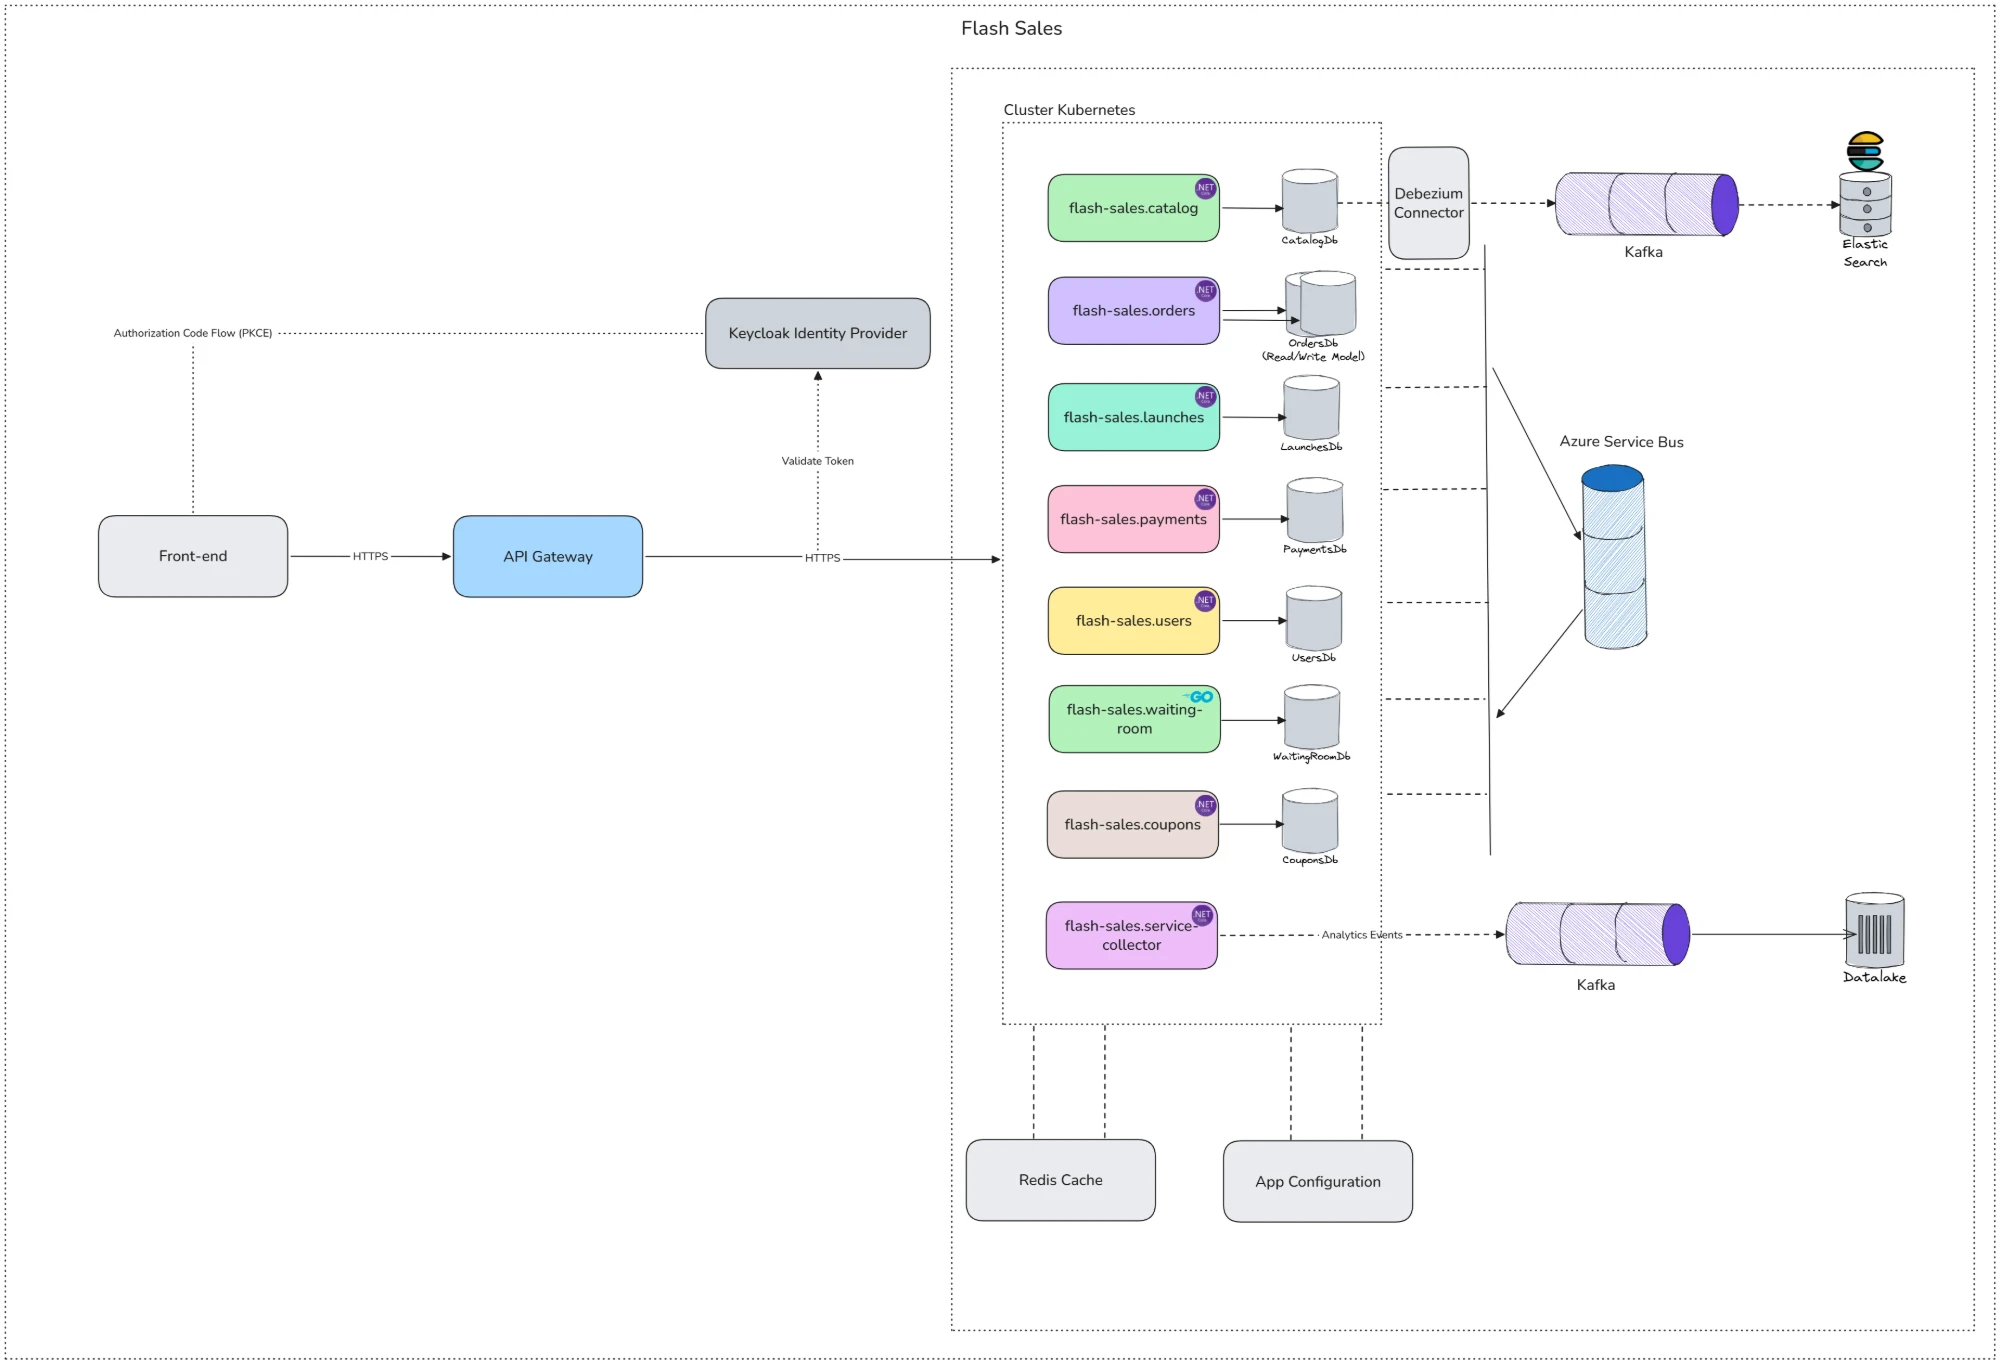
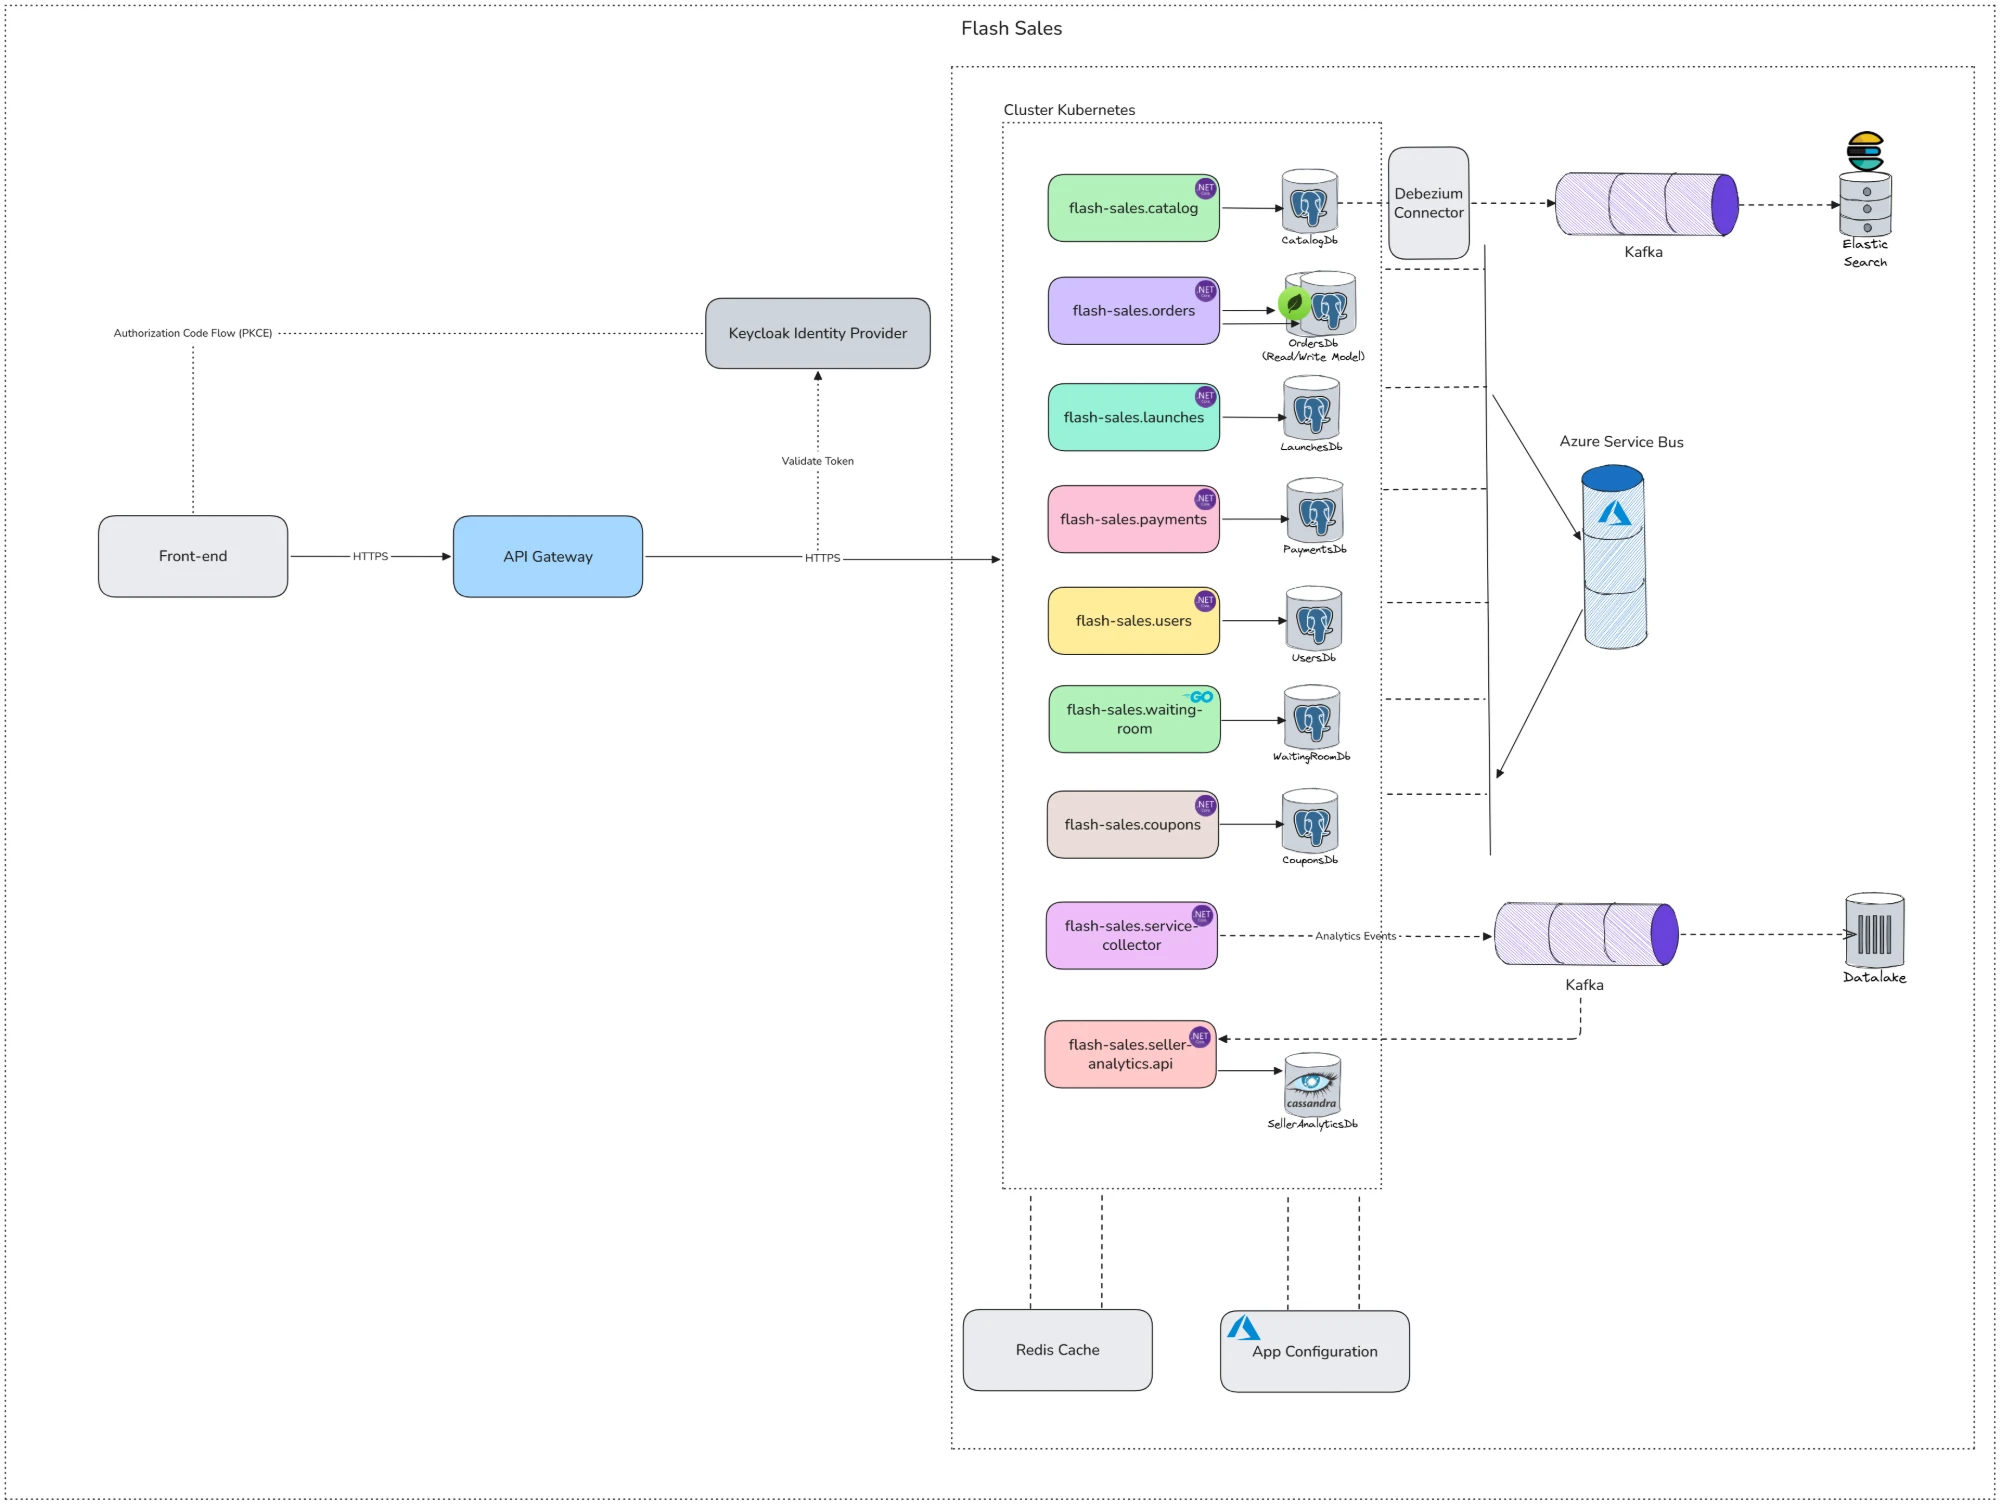
docs: update readme

diff --git a/README.md b/README.md
@@ -14,6 +14,7 @@ Flash Sales is a microservices platform for running high-demand, time-boxed prod
 - **Stripe payment gateway** integration behind a swappable abstraction.
 - **Feature flags and dynamic configuration** via Azure App Configuration.
 - **Clickstream analytics pipeline**: a dedicated service collector ingests front-end interaction events, streams them through Kafka, and lands them in a Data Lake for product analytics.
+- **Seller analytics**: a dedicated service consumes launch analytics events from Kafka and writes purpose-built views into **Cassandra**, so sellers can see how their launches are performing without touching the transactional databases.
 - **Secrets in Azure Key Vault** — no connection strings or client secrets sitting in plaintext configuration.
 - **Full distributed tracing and structured logging** via OpenTelemetry and Serilog, exported to Jaeger and Seq, correlated across HTTP and background-job execution alike.
 - **gRPC** for synchronous cross-service calls, with the standard gRPC Health Checking Protocol exposed alongside REST health checks.
@@ -24,7 +25,7 @@ Flash Sales is a microservices platform for running high-demand, time-boxed prod
 
 ![Flash Sales Architecture](docs/images/flash-sales-architecture.webp)
 
-A front-end authenticates against **Keycloak** via Authorization Code Flow with PKCE, then talks to the platform through an **API Gateway**, which routes to a Kubernetes-hosted cluster of seven bounded-context services (six in .NET, plus the Go-based Waiting Room) and the analytics service collector. Every request carries a Keycloak-issued JWT, validated independently by the service handling it — the gateway routes, it does not authorize. Services communicate synchronously over **gRPC** and resilient HTTP, and asynchronously over **Azure Service Bus** through a per-module Outbox/Inbox pipeline. Each service owns its own database, and the shared infrastructure around the cluster — Redis for caching, Azure App Configuration for flags and config — is opted into per service. Orders' data is split across a write model (the Marten event stream) and a read model (MongoDB projections), and the Catalog is additionally projected into **Elasticsearch** to power full-text product search: a **Debezium** connector captures changes from the Catalog database, streams them through **Kafka**, and keeps the search index up to date, exactly as drawn in the diagram.
+A front-end authenticates against **Keycloak** via Authorization Code Flow with PKCE, then talks to the platform through an **API Gateway**, which routes to a Kubernetes-hosted cluster of eight bounded-context services (seven in .NET, plus the Go-based Waiting Room) and the analytics service collector. Every request carries a Keycloak-issued JWT, validated independently by the service handling it — the gateway routes, it does not authorize. Services communicate synchronously over **gRPC** and resilient HTTP, and asynchronously over **Azure Service Bus** through a per-module Outbox/Inbox pipeline. Each service owns its own database — PostgreSQL for most, with MongoDB alongside it for Orders' read model and Cassandra for seller analytics — and the shared infrastructure around the cluster — Redis for caching, Azure App Configuration for flags and config — is opted into per service. Orders' data is split across a write model (the Marten event stream) and a read model (MongoDB projections), and the Catalog is additionally projected into **Elasticsearch** to power full-text product search: a **Debezium** connector captures changes from the Catalog database, streams them through **Kafka**, and keeps the search index up to date, exactly as drawn in the diagram.
 ## Bounded Contexts
 
 | Service | Responsibility | Persistence | Notable role |
@@ -34,9 +35,10 @@ A front-end authenticates against **Keycloak** via Authorization Code Flow with 
 | `flash-sales.orders` | Order creation, confirmation, cancellation, refund | Marten event stream (write) + MongoDB projections (read) | Orchestrates the order-creation saga across Launches and Payments |
 | `flash-sales.payments` | Payment checkout, reconciliation | PostgreSQL | Integrates with Stripe as the payment gateway |
 | `flash-sales.coupons` | Discount coupons: creation, activation/pause/cancel, redemption and release | PostgreSQL (write) + Dapper (read) | Redeem/release are saga steps called by Orders over gRPC; rollout gated by the `Coupons` feature flag |
-| `flash-sales.waiting-room` | Virtual waiting room and fair admission to a launch | Own database (`WaitingRoomDb`) | Written in **Go**; the only non-.NET service on the platform |
+| `flash-sales.waiting-room` | Virtual waiting room and fair admission to a launch | PostgreSQL (`WaitingRoomDb`) | Written in **Go**; the only non-.NET service on the platform |
 | `flash-sales.users` | Identity, permissions, seller onboarding | PostgreSQL (write) + Dapper (read) | Hosts the gRPC permissions server every other service consumes; owns Keycloak admin integration |
 | `flash-sales.service-collector` | Clickstream / interaction event ingestion | Kafka → Data Lake | Decoupled from the transactional path entirely; feeds product analytics |
+| `flash-sales.seller-analytics` | Seller-facing analytics views over their launches | Cassandra (`SellerAnalyticsDb`) | Consumes launch analytics events from Kafka; its API serves the views sellers see |
 
 All the .NET services sit on a shared `FlashSales.Infrastructure` / `FlashSales.Application` / `FlashSales.Endpoints` building-blocks layer, plus per-module `Domain` / `Application` / `Infrastructure` / `Endpoints` / `Contracts` projects that keep each context's public contract isolated from its internals. The Go Waiting Room shares none of that code by design — it integrates only through the same contracts every other service sees: Keycloak-issued JWTs, the API Gateway, and Azure Service Bus integration events.
 
@@ -84,6 +86,10 @@ Connection strings, client secrets, and API keys are never held in plaintext con
 
 The `flash-sales.service-collector` service is intentionally decoupled from the transactional path: it ingests front-end click and interaction events, publishes them onto **Kafka**, and Kafka feeds a **Data Lake** for downstream product analytics. Nothing about checkout, stock, or payments depends on this pipeline being healthy — analytics failure never becomes a sales-path incident.
 
+## Seller Analytics — Kafka, Cassandra
+
+`flash-sales.seller-analytics` turns the same analytics event stream into something sellers can act on. It consumes launch-related analytics events from **Kafka** — the same topic that feeds the Data Lake, as an independent consumer — and writes them into **Cassandra**, where the data is modeled query-first around the views defined for sellers: how each of their launches is performing over time. Cassandra fits the shape of the workload — a continuous, high-volume stream of append-only events read back by a small set of known access patterns — and keeps that read load entirely off the transactional databases. Like the collector, it sits outside the sales path: if it falls behind or goes down, checkout, stock and payments are unaffected, and it catches up from Kafka when it returns.
+
 ## Catalog Full-Text Search — Debezium, Kafka, Elasticsearch
 
 The Catalog supports **full-text search** over products, so shoppers can find items by name, description and other text fields with relevance ranking, instead of the exact-match filtering a relational query gives you. Queries are served by **Elasticsearch**, not PostgreSQL. The index is fed without the Catalog service dual-writing to a second store: a **Debezium** connector watches the Catalog database through change data capture and publishes row changes onto **Kafka**, and a consumer indexes them into Elasticsearch. Search stays eventually consistent with the source of truth, and an Elasticsearch outage never touches the write path — products can still be created and updated while search catches up.
@@ -100,7 +106,7 @@ Health checks are granular and per-service by design: each service exposes a liv
 
 ## Storage
 
-PostgreSQL is scoped one schema per module, written through EF Core and read through Dapper riding the same connection EF Core already opened — no second connection pool, no drift between the write and read paths for the modules that stay relational. Redis backs cross-module permission caching as a shared, opt-in building block. Azure Blob Storage holds product images and seller profile pictures. Orders is the exception by design: its write model lives in Marten's event store and its read model in MongoDB, per the [Event Sourcing & CQRS](#event-sourcing--cqrs-orders) section above.
+PostgreSQL is scoped one schema per module, written through EF Core and read through Dapper riding the same connection EF Core already opened — no second connection pool, no drift between the write and read paths for the modules that stay relational. Redis backs cross-module permission caching as a shared, opt-in building block. Azure Blob Storage holds product images and seller profile pictures. Two services are exceptions by design: Orders keeps its write model in Marten's event store and its read model in MongoDB, per the [Event Sourcing & CQRS](#event-sourcing--cqrs-orders) section above, and Seller Analytics stores its query-first views in Cassandra, per the [Seller Analytics](#seller-analytics--kafka-cassandra) section.
 
 ## Composable Infrastructure Building Blocks
 
@@ -124,8 +130,9 @@ The full local dependency stack is defined in [`docker/docker-compose.yml`](dock
 | `azurite` | Local Azure Blob Storage emulator |
 | `servicebus-emulator` (+ `servicebus-mssql`) | Local Azure Service Bus emulator |
 | `app-configuration` | Azure App Configuration emulator — feature flags and dynamic config |
-| `kafka` | Event streaming backbone for the service collector and Debezium CDC for the Catalog search index |
+| `kafka` | Event streaming backbone for the service collector, seller analytics and Debezium CDC for the Catalog search index |
 | `mongodb` | Orders CQRS read projections |
+| `cassandra` | Seller analytics views |
 
 ```bash
 docker compose -f docker/docker-compose.yml up -d
@@ -139,7 +146,7 @@ Then run any service from `src/Apps/APIs/FlashSales.<Name>.Api` — each is a st
 |---|---|
 | Runtime | .NET 10, ASP.NET Core Minimal APIs; Go (Waiting Room) |
 | Write-model persistence | Entity Framework Core (Npgsql), Marten (event sourcing — Orders) |
-| Read-model persistence | Dapper, MongoDB (Orders projections) |
+| Read-model persistence | Dapper, MongoDB (Orders projections), Cassandra (seller analytics views) |
 | Mediator / pipeline | MidR (commands, queries, notifications, pipeline behaviors) |
 | Validation | FluentValidation |
 | Messaging | Azure Service Bus, Kafka |
